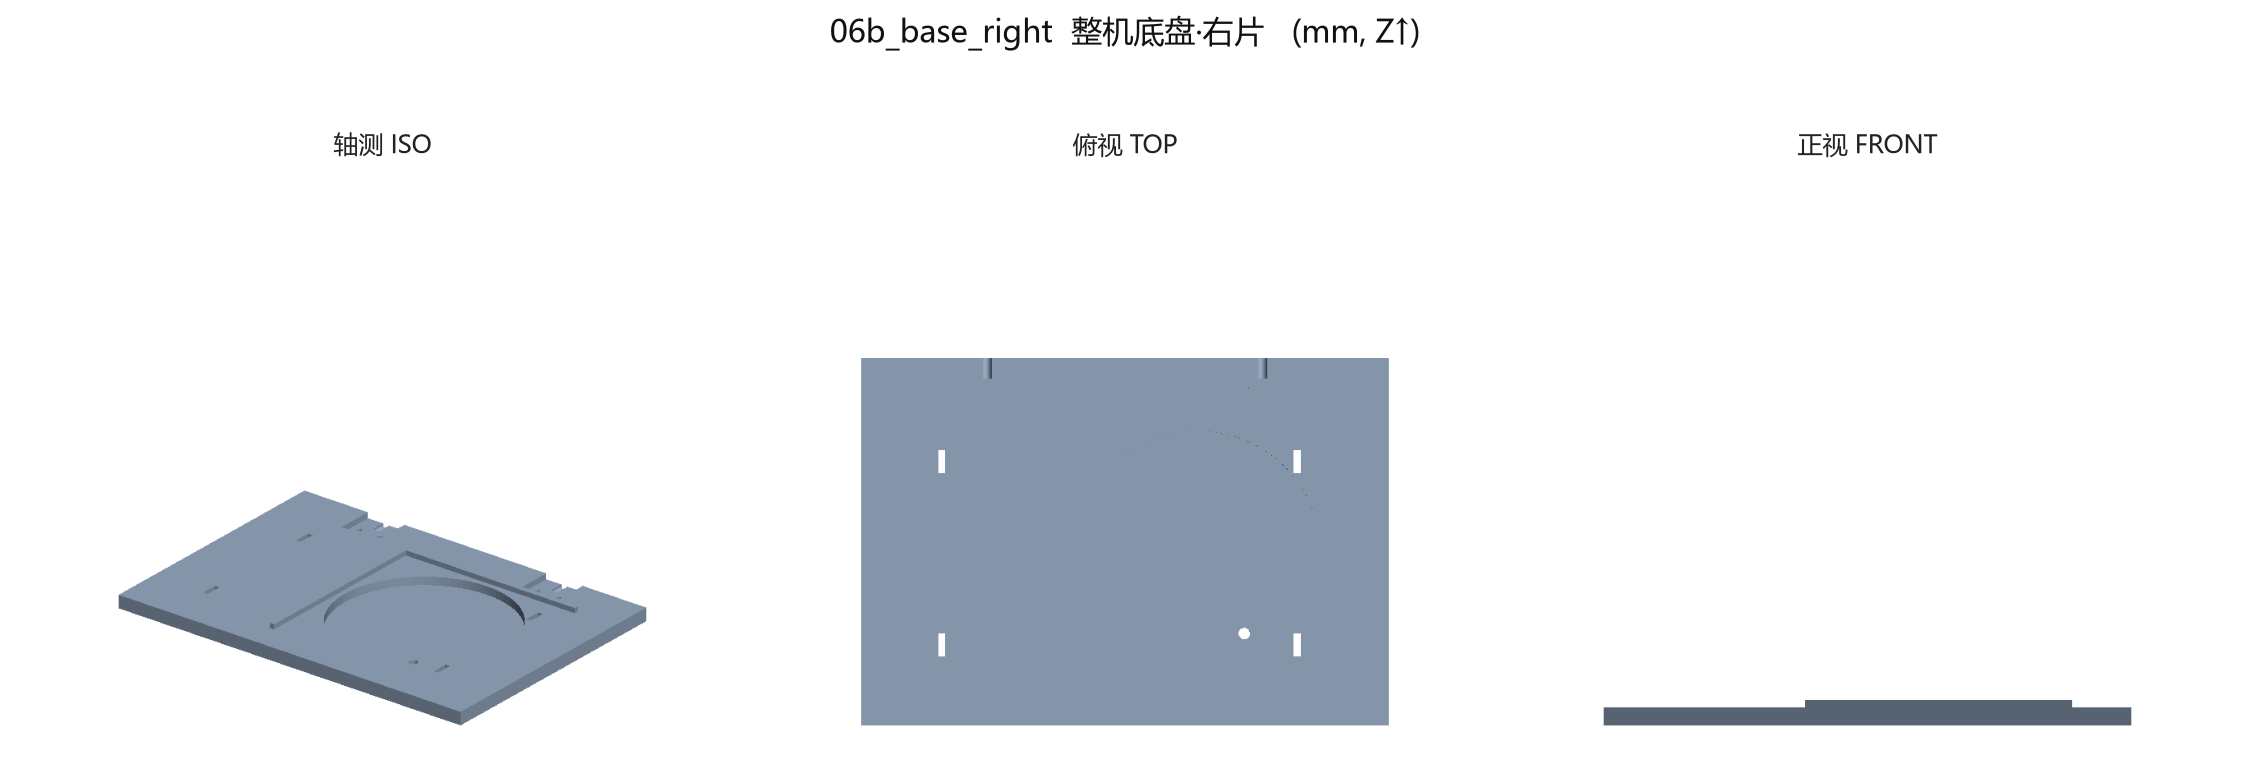
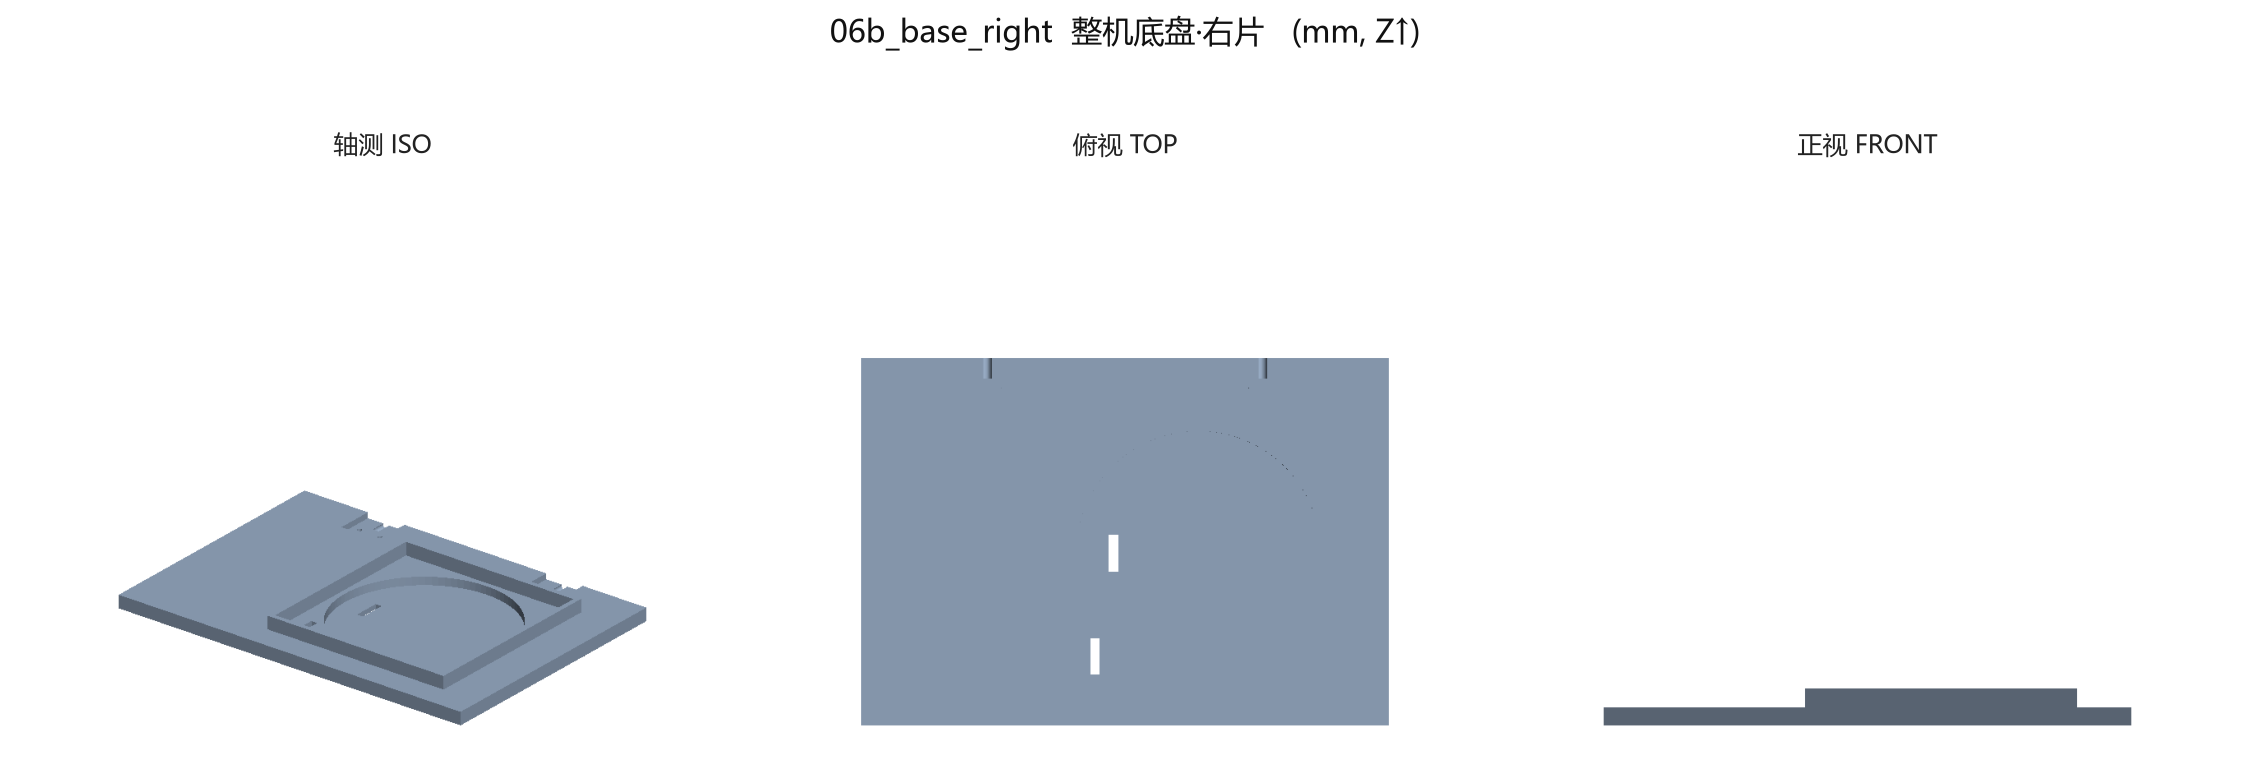
fix(3D): [R1] 06b 排水槽改进版——围墙内远角 + 水箱槽底各 16×4（领导 11-13 定尺寸）
并行会话今晚改进：原 20×6 收窄为 16×4×2 两处；317.5g 水密重出 + 效果图。
⚠ 已打的 06b（11-12）无排水槽——是否补打待领导拍板（不阻塞 48h 测试，
排水槽是防积水的耐久性优化，非功能件）。

diff --git a/outputs/3D打印件/花房3D_整机底盘/base_2pc_models.py b/outputs/3D打印件/花房3D_整机底盘/base_2pc_models.py
@@ -73,13 +73,16 @@ P = {
    # 圆槽直径 = 桶底 105（实测）+ 2
     "tank_pos": (85.0, 32.0),
     "tank_depth": 5.0,          # 槽底仍 z=3
+    "slot_pos": (130.0, -13.0),    # 围墙内远角排水槽（2026-11-13）：排掉墙内积水
+    "slot_w": 16.0, "slot_d": 4.0,   # 2026-11-13 领导：20×6 太大 → 收回 16×4
 
     # 槽底排水孔：水箱漏的水从这里穿板滴到桌面，不进电控区
-    "drain_pos": (120.0, 52.0),
+    "drain_pos": (85.0, -5.0),     # 2026-11-13 水箱槽底排水槽中心（桶槽内，靠 -Y 侧）
+    "drain_w": 16.0, "drain_h": 4.0,  # 2026-11-13 领导：与围墙内那个统一为 16×4
     "drain_d": 5.0,
     # 挡水堤（v1.3 AR05）：沿水箱槽的电控侧两边竖起 3mm 高堤，拦住横向漫流
     "dam_w": 3.0,
-    "dam_h": 3.0,
+    "dam_h": 8.0,             # 2026-11-13 领导：围墙加高到 8（原 3 挡不住水）
 
     # 拼接
     "joint_y": (60.0, -60.0),   # 2026-11-12 领导：连接槽与花盆/oled 对齐到 y=60
@@ -225,22 +228,27 @@ def build_half(p, side):
         # 圆槽：竖壁圆柱切 5 深（1L 桶落座），见参数注释
         holes.append(C(p["tank_pos"][0], p["tank_pos"][1], pt + 1.0 - p["tank_depth"] / 2,
                        p["tank_d"] / 2, p["tank_depth"] + 2, sections=96))   # 槽底 = pt-tank_depth
-        # 槽底排水孔（通板，漏水直落桌面）——位置在槽内，桶底下也照排渗水
-        holes.append(C(p["drain_pos"][0], p["drain_pos"][1], pt / 2,
-                       p["drain_d"] / 2, pt + 4, sections=32))
-        for yy in (-80, 75):
-            for xx in (45, 125):
-                holes.append(B(xx, yy, pt / 2, p["slot_l"], p["slot_w"], pt + 4))
+        # 2026-11-13：水箱圆槽底增加排水槽（桶内渗水从此排出）
+        holes.append(B(p["drain_pos"][0], p["drain_pos"][1], pt / 2,
+                       p["drain_w"], p["drain_h"], pt + 4))
+        # 2026-11-13 领导：除这两个排水槽外，其余孔洞全部删除
+        #   → 删掉原 φ5 排水孔 (120,52) 和 4 个扎带过孔 (45/125, -80/75)
+        #   保留：水箱圆槽（功能）、06c 连接槽、M3 引导孔、φ4.1 定位销孔（结构必需）
 
     body = cut(body, holes)
 
-    # 挡水堤：沿圆槽 -Y/-X 两切点外侧竖 3×3（槽外实板上，避开 φ108 圆）
+    # 挡水堤：2026-11-13 领导要求改成「四面连着的围墙」（原来是 -Y/-X 两道直堤）
     if side > 0:
         tx, ty = p["tank_pos"]
         d, dw, dh = p["tank_d"] / 2, p["dam_w"], p["dam_h"]
-        dam = add(B(tx, ty - d - dw / 2 - 3.0, pt + dh / 2, 2 * d + 8, dw, dh),
-                  [B(tx - d - dw / 2 - 3.0, ty, pt + dh / 2, dw, 2 * d + 8, dh)])
-        body = add(body, [dam])
+        s_i = d + 3.0                      # 内壁：距桶壁 3mm（水可积在环内）
+        s_o = s_i + dw                     # 外壁
+        ring = B(tx, ty, pt + dh / 2, 2 * s_o, 2 * s_o, dh)
+        ring = cut(ring, [B(tx, ty, pt + dh / 2, 2 * s_i, 2 * s_i, dh + 4)])
+        body = add(body, [ring])
+        # 排水槽：远离元件的一角（06b 的远端），12×3 通槽 + 外侧导流口
+        dx_, dy_ = p["slot_pos"]
+        body = cut(body, [B(dx_, dy_, pt / 2, p["drain_w"], p["drain_h"], pt + 6)])   # 用 drain_w/h，避开同名 slot_w
     return body
 
 
